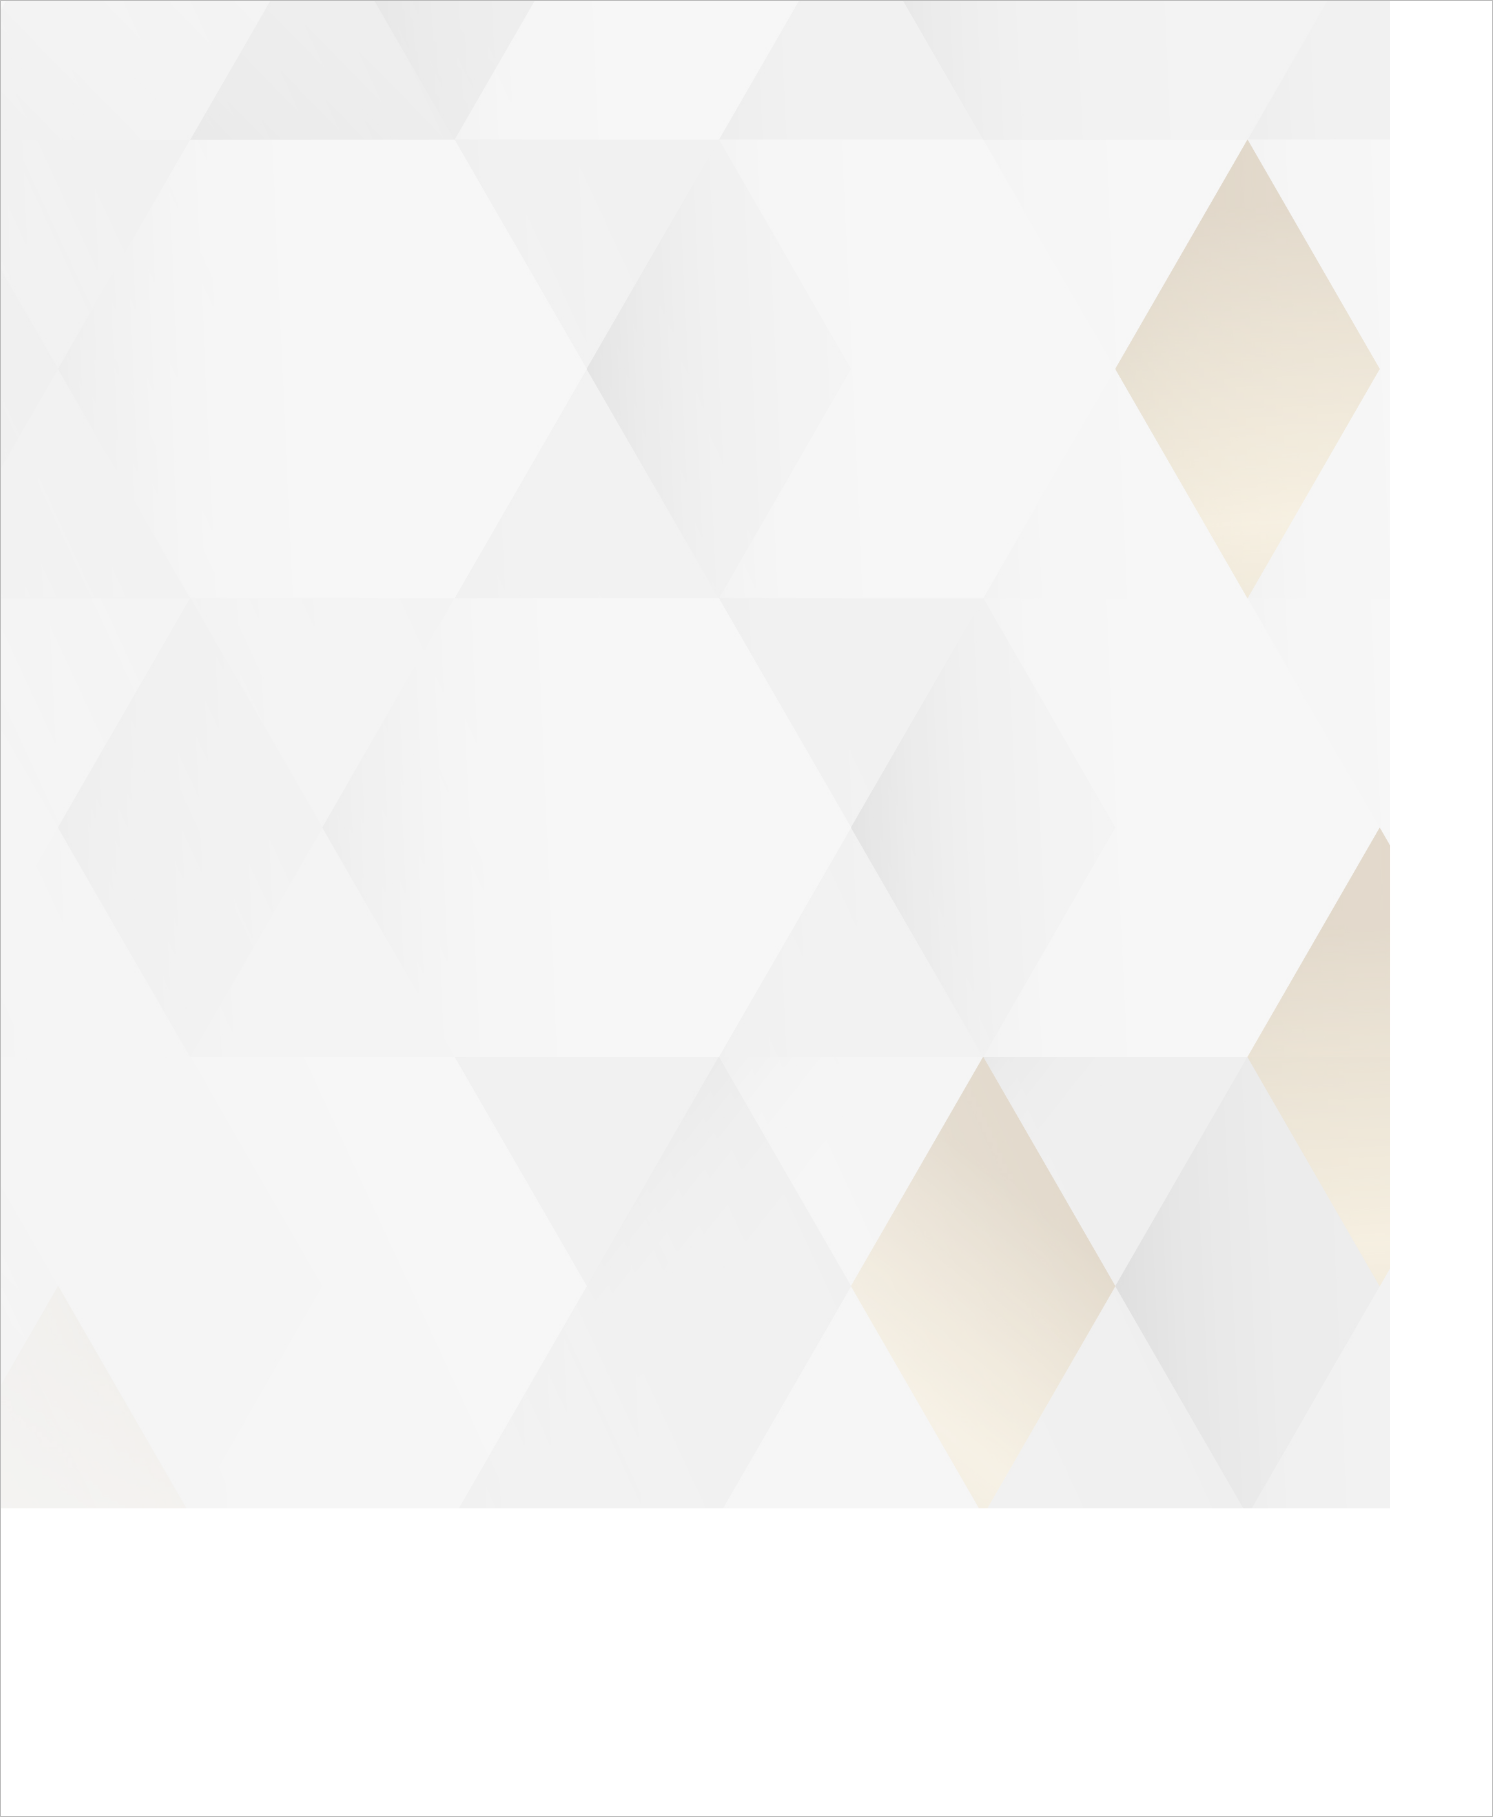
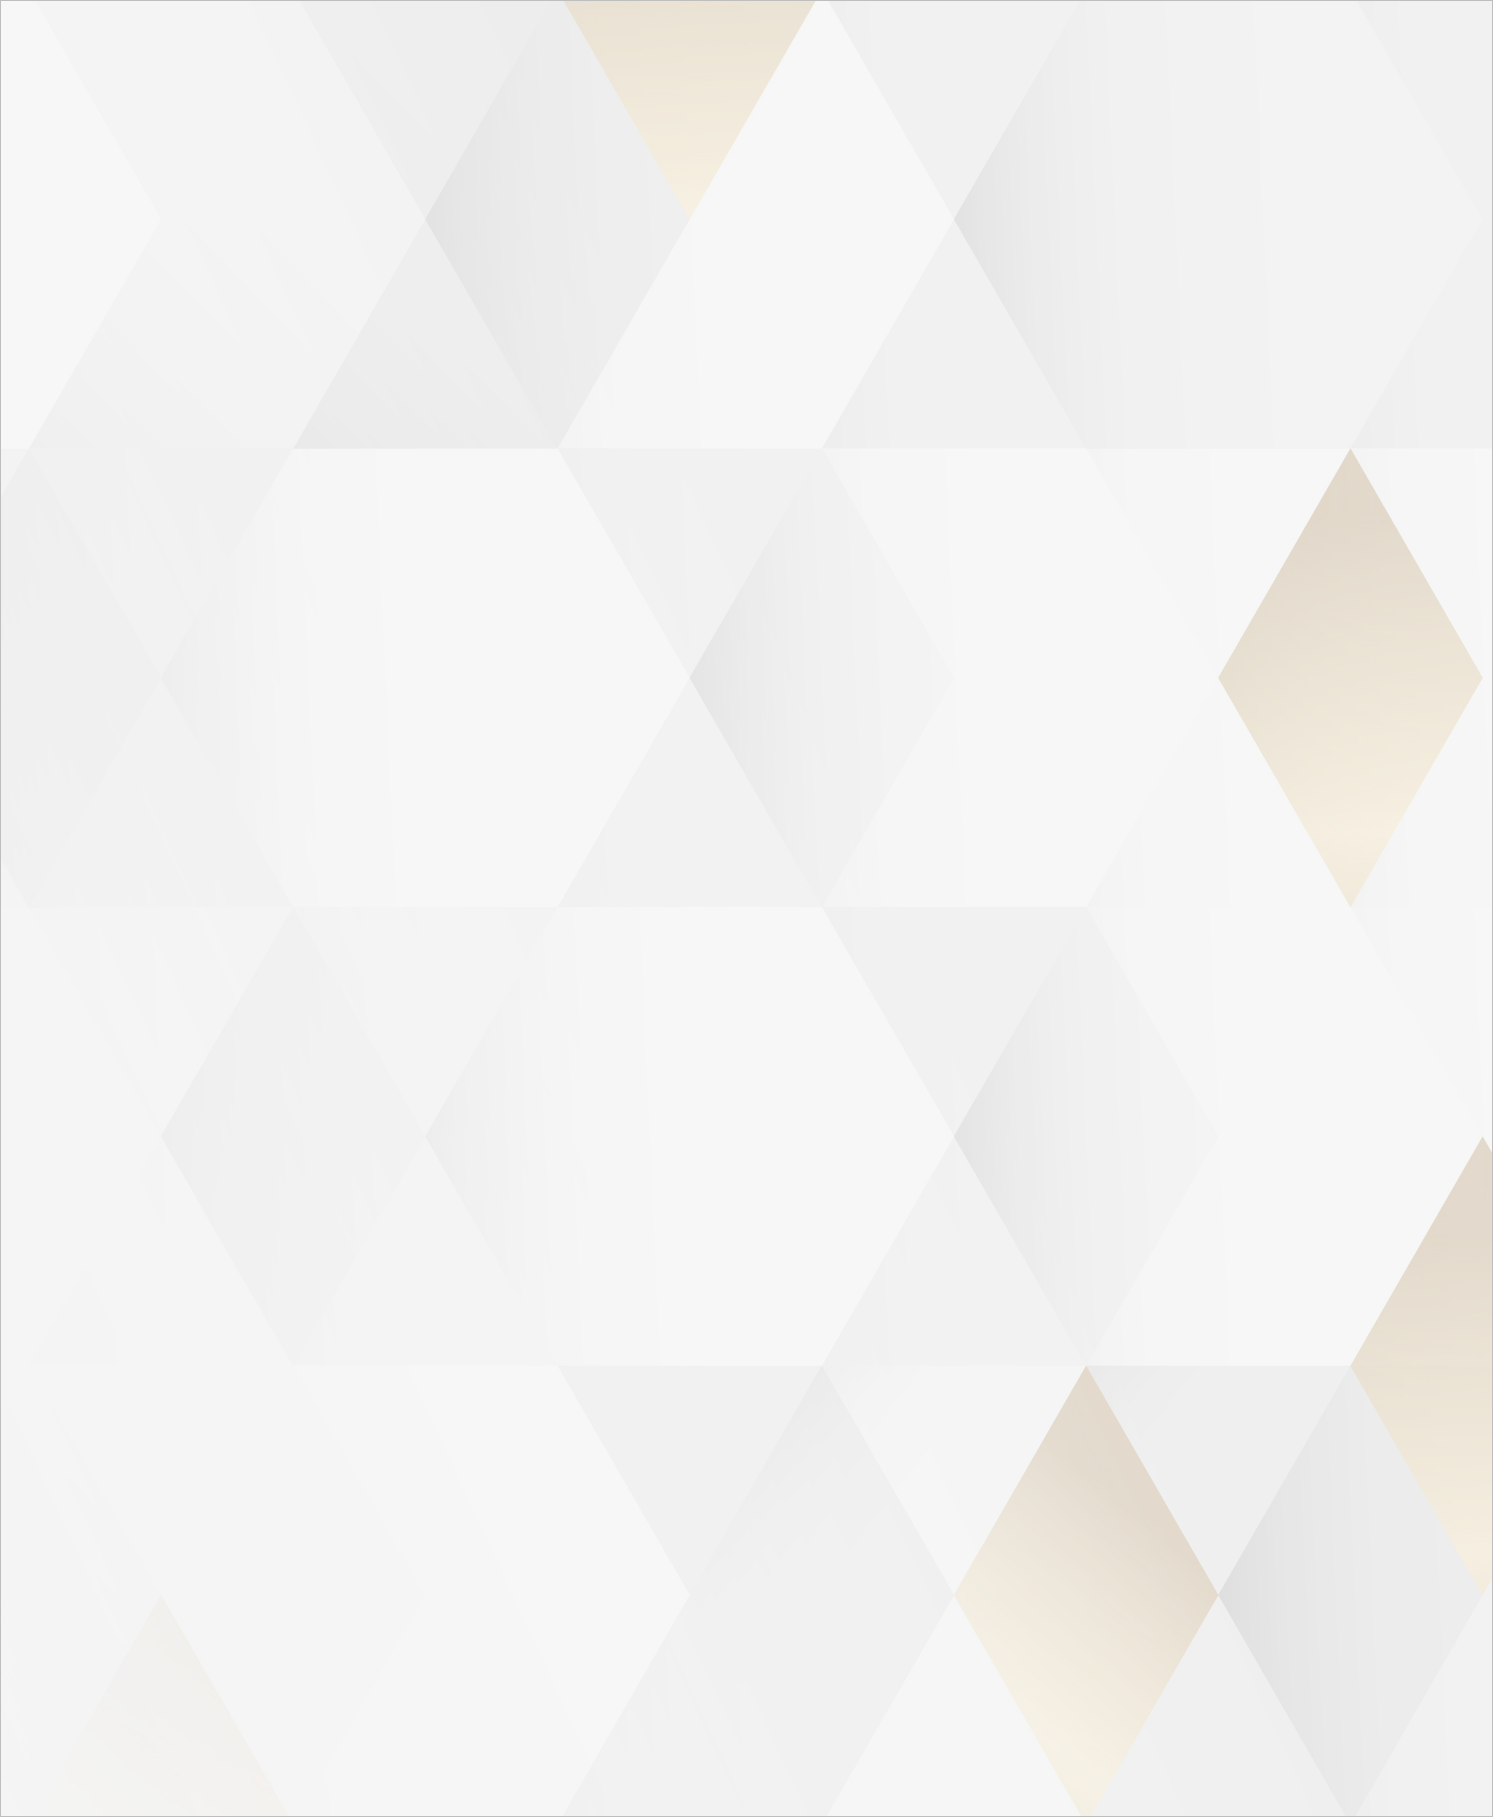
update

Changed region(s): [[0.7395, 0.0616, 1.0, 0.8938], [0.5854, 0.5856, 0.8627, 1.0], [0.3697, 0.0, 0.5546, 0.0925]]

diff --git a/pages/about/index.tsx b/pages/about/index.tsx
@@ -12,7 +12,7 @@ const About = () => {
         <link rel="icon" href="/favicon.ico" />
       </Head>
       <Navbar logo="/images/logo.svg" />
-      <div className="bg-about-us overflow-hidden">
+      <div className="bg-about-us overflow-hidden bg-cover">
         <div className="container py-20 overflow-hidden">
           <div className="flex flex-row  items-center sm:justify-start  gap-x-2 mb-5" >
 
